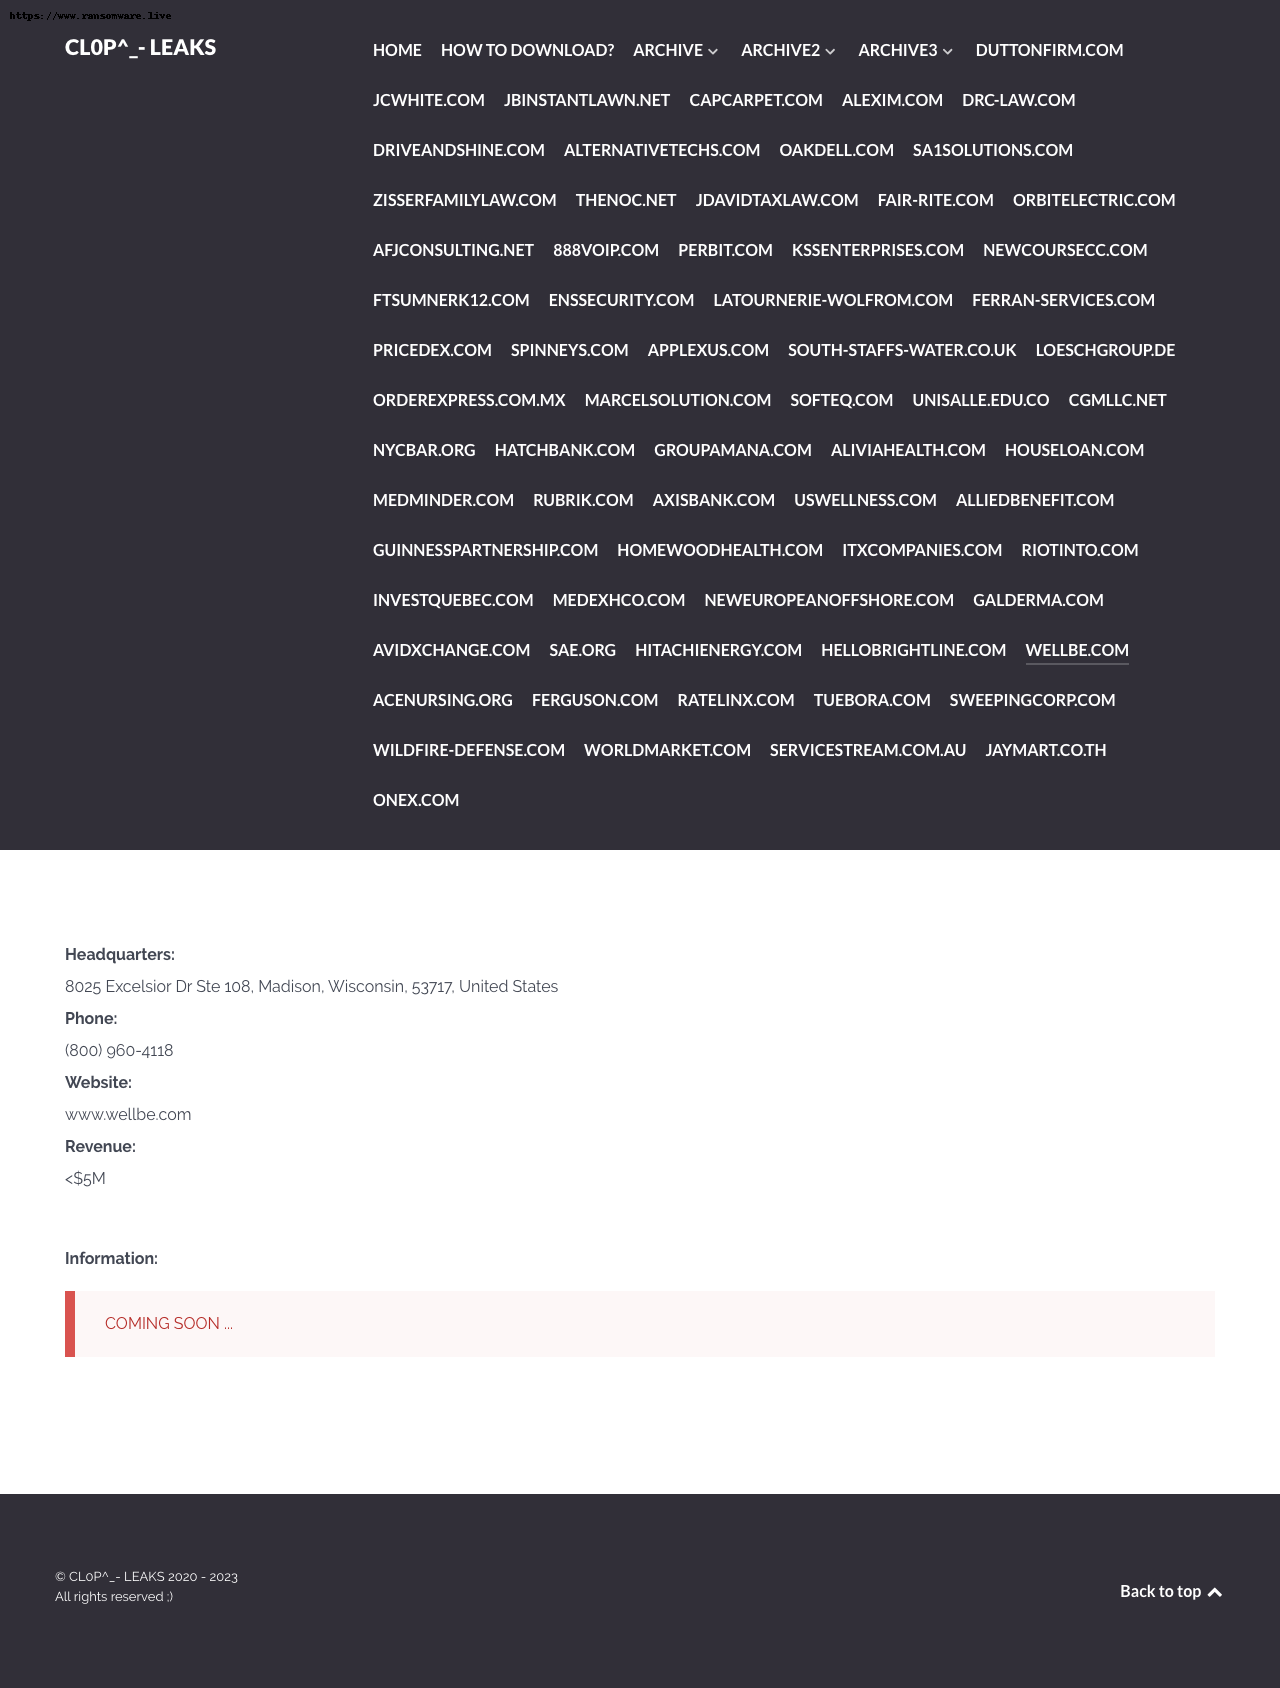
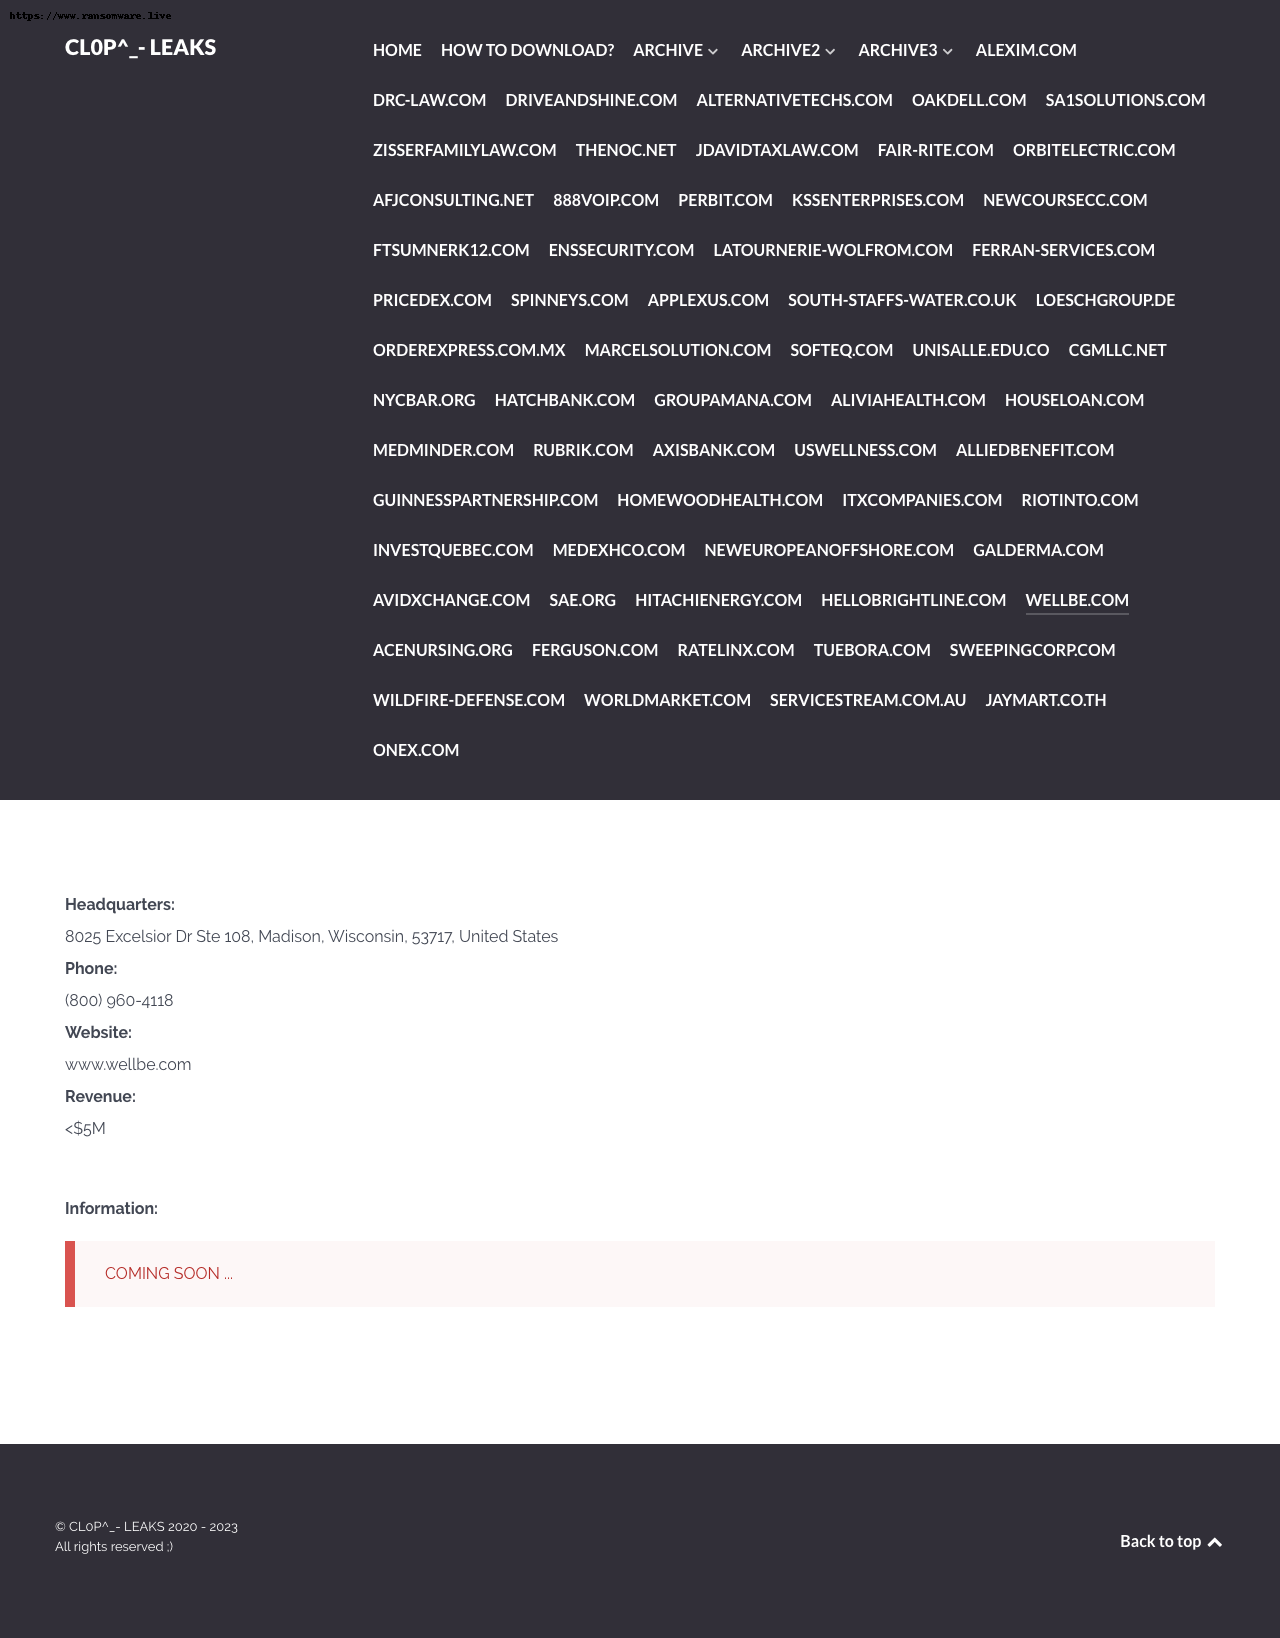
Update screenpost for Clop

diff --git a/parsers/clop.py b/parsers/clop.py
@@ -1,3 +1,12 @@
+"""
++------------------------------+------------------+----------+
+| Description | Published Date | Victim's Website | Post URL |
++------------------------------+------------------+----------+
+|              |               |        X         |    X     |
++------------------------------+------------------+----------+
+Rappel : def appender(post_title, group_name, description="", website="", published="", post_url=""):
+"""
+
 import os
 from bs4 import BeautifulSoup
 from parse import appender
@@ -14,4 +23,5 @@ def main():
                 for item in div.contents :
                     if item in blacklist:
                         continue
-                    appender(item, 'clop','_URL_')
+                    post_url= "http://santat7kpllt6iyvqbr7q4amdv6dzrh6paatvyrzl7ry3zm72zigf4ad.onion/" + str.lower(item.replace(".","-"))
+                    appender(item, 'clop','_URL_','','',post_url)
